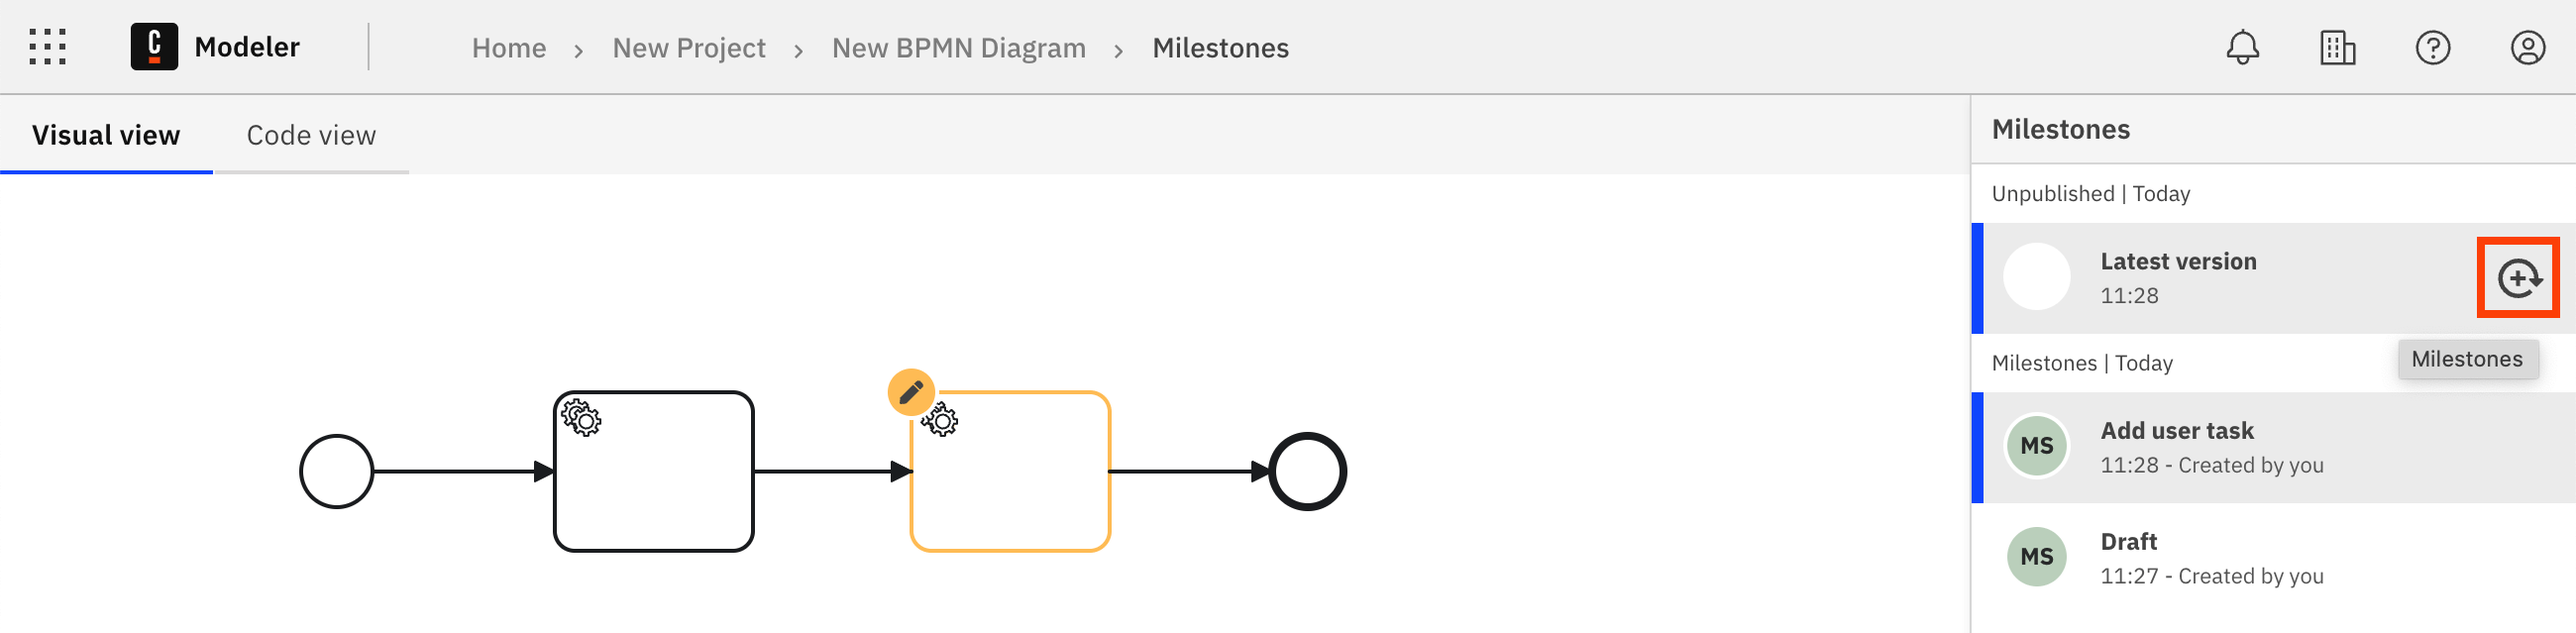
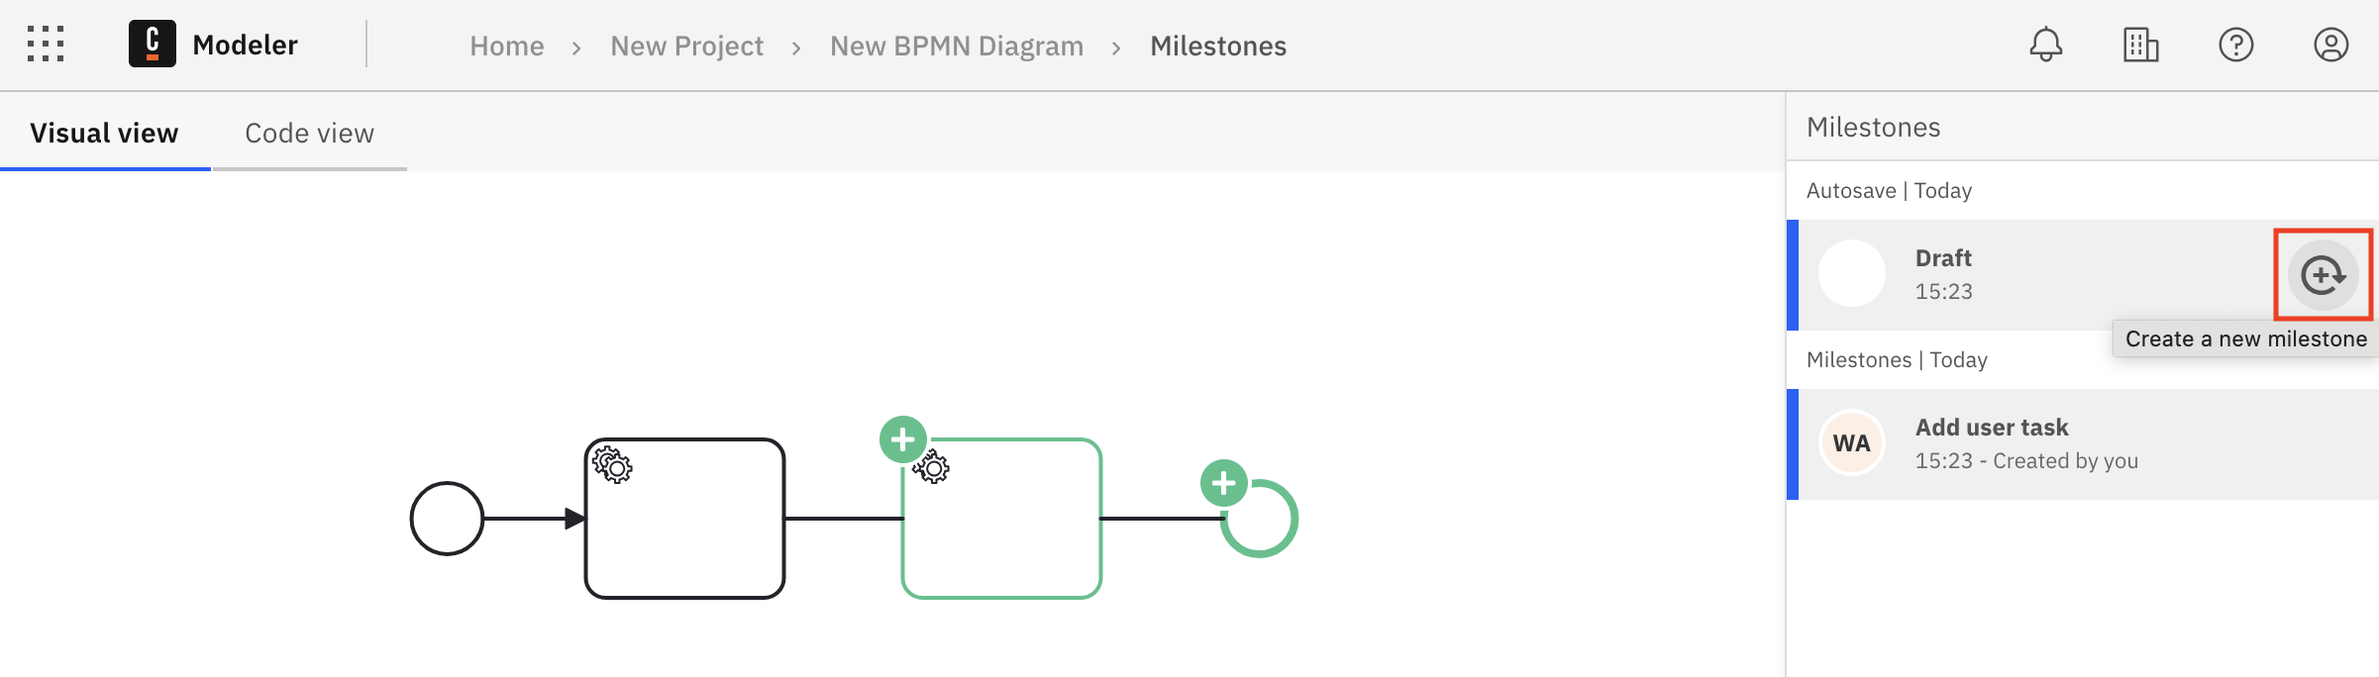
chore(web-modeler): rename "latest version" to "draft"

diff --git a/versioned_docs/version-8.6/components/modeler/web-modeler/milestones.md b/versioned_docs/version-8.6/components/modeler/web-modeler/milestones.md
@@ -32,7 +32,7 @@ You can create a new milestone either from your diagram or the milestone history
 
   ![milestones create via the breadcrumb menu](img/milestones/web-modeler-milestone-create-via-breadcrumb-highlight.png)
 
-- From the milestone history, hover over the the latest version in the **Milestones** panel and select **Create a new milestone**.
+- From the milestone history, hover over the latest version in the **Milestones** panel and select **Create a new milestone**.
 
   ![milestones create via icon](img/milestones/web-modeler-milestone-create-via-icon-highlight.png)
 

diff --git a/docs/components/modeler/web-modeler/milestones.md b/docs/components/modeler/web-modeler/milestones.md
@@ -32,7 +32,7 @@ You can create a new milestone either from your diagram or the milestone history
 
   ![milestones create via the breadcrumb menu](img/milestones/web-modeler-milestone-create-via-breadcrumb-highlight.png)
 
-- From the milestone history, hover over the the latest version in the **Milestones** panel and select **Create a new milestone**.
+- From the milestone history, hover over the draft in the **Milestones** panel and select **Create a new milestone**.
 
   ![milestones create via icon](img/milestones/web-modeler-milestone-create-via-icon-highlight.png)
 
